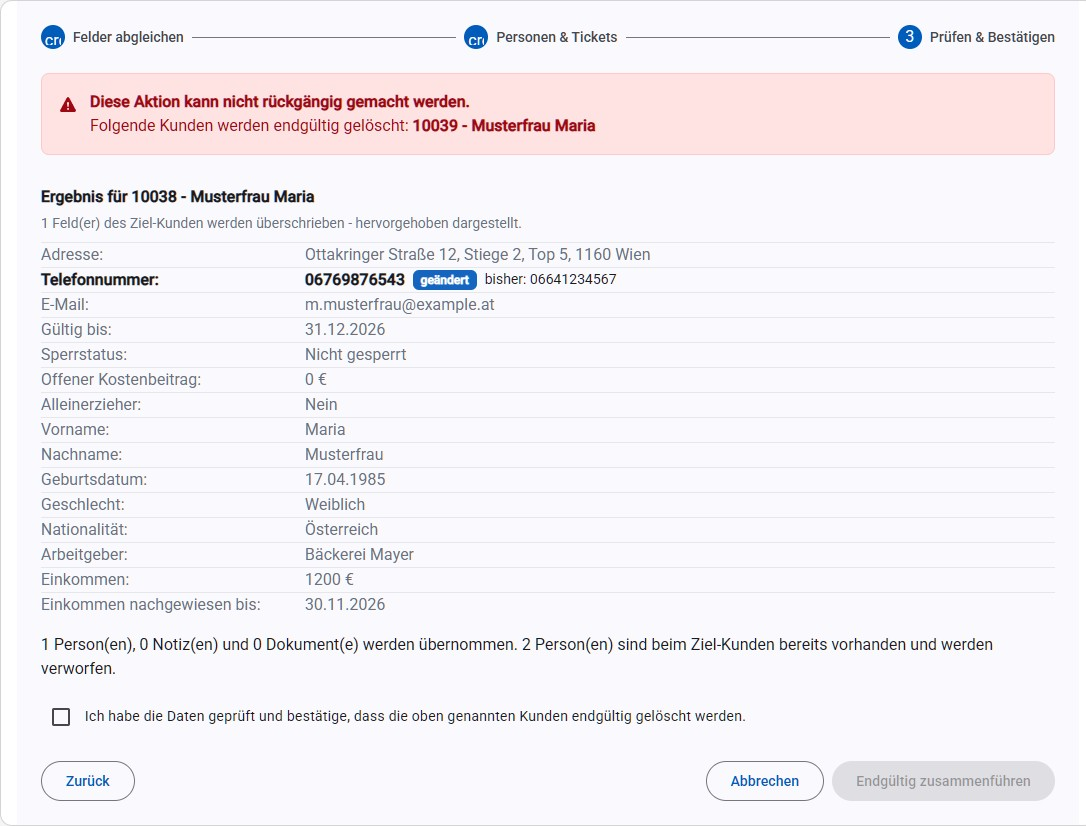
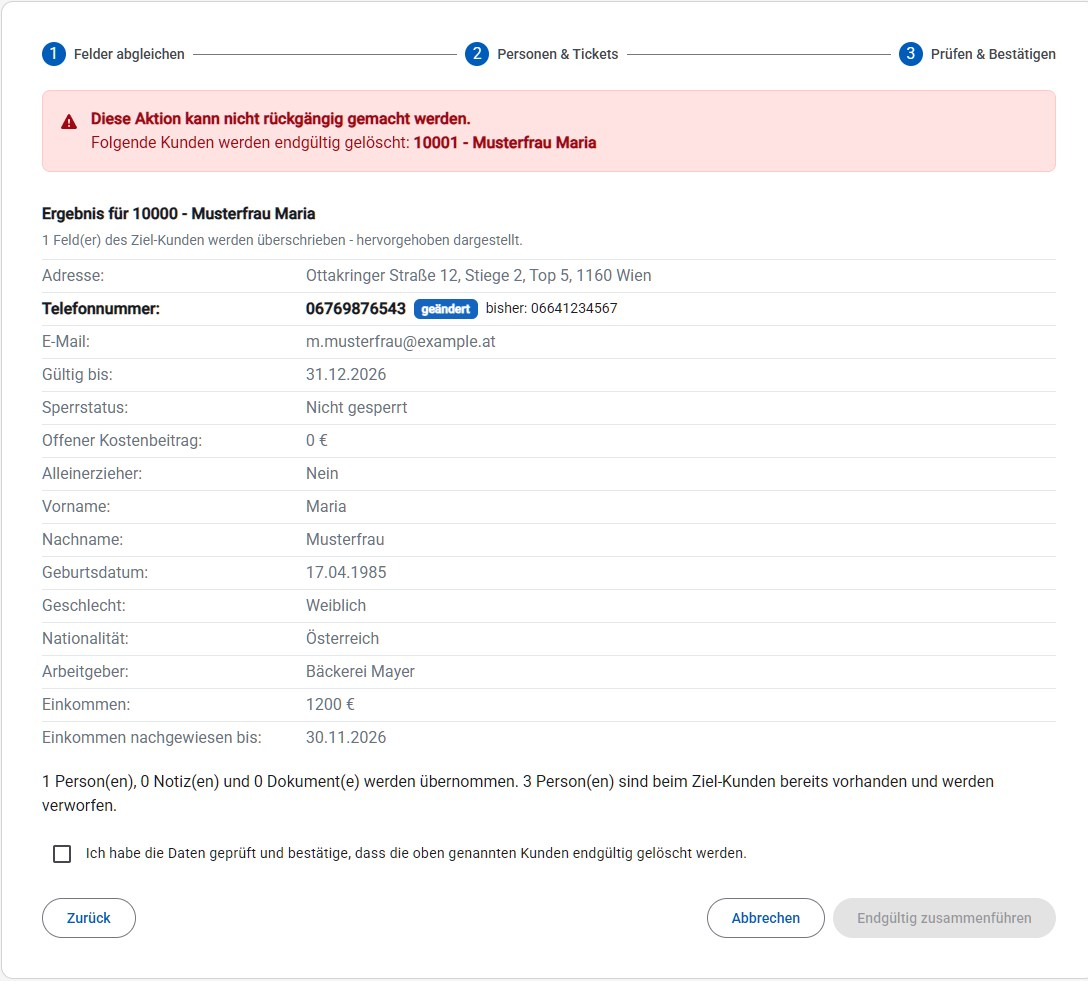
fix(customer): show step numbers and host background in the merge stepper
The stepper rendered visited steps' edit indicator as the Material-Icons
"create" ligature - a font this app doesn't ship - which showed up as
clipped raw text ("cr"). Visited steps now keep their number via
matStepperIcon overrides.

The stepper also painted its own --mat-sys-surface (a grey-lavender tint)
inside the white card; a global override makes every stepper transparent so
it takes the surface it sits on. The confirm-step userguide screenshot is
retaken accordingly.

diff --git a/frontend/src/main/webapp/src/app/modules/customer/views/customer-merge/customer-merge.component.html b/frontend/src/main/webapp/src/app/modules/customer/views/customer-merge/customer-merge.component.html
@@ -21,6 +21,12 @@
   <mat-card>
     <mat-card-content>
       <mat-stepper [orientation]="stepperOrientation()" aria-label="Schritte der Zusammenführung" testid="merge-stepper">
+        <!-- The stepper's default edit/done indicators are Material-Icons font ligatures ("create"/
+             "done"); this app doesn't ship that font (icons are FontAwesome), so they would render
+             as clipped raw text. Visited steps keep their number instead. -->
+        <ng-template matStepperIcon="edit" let-index="index">{{index + 1}}</ng-template>
+        <ng-template matStepperIcon="done" let-index="index">{{index + 1}}</ng-template>
+
         <mat-step>
           <ng-template matStepLabel><span testid="merge-step-fields">Felder abgleichen</span></ng-template>
 

diff --git a/frontend/src/main/webapp/cypress/e2e/customer-duplicates.cy.ts b/frontend/src/main/webapp/cypress/e2e/customer-duplicates.cy.ts
@@ -252,6 +252,11 @@ describe('Customer Merge', () => {
       cy.byTestId('merge-next-persons-button').click();
       cy.byTestId('merge-next-confirm-button').click();
 
+      // visited steps keep their number - the default edit icon is a Material-Icons font ligature
+      // this app doesn't ship, which would render as clipped raw text ("cr")
+      cy.byTestId('merge-stepper').find('.mat-step-header .mat-step-icon').eq(0).should('have.text', '1');
+      cy.byTestId('merge-stepper').find('.mat-step-header .mat-step-icon').eq(1).should('have.text', '2');
+
       cy.byTestId('merge-danger-banner')
         .should('contain.text', 'kann nicht rückgängig gemacht werden')
         .and('contain.text', `${source.id}`);

diff --git a/frontend/src/main/webapp/src/scss/components/mat-stepper.scss b/frontend/src/main/webapp/src/scss/components/mat-stepper.scss
@@ -1,0 +1,8 @@
+// The stepper paints its own surface by default (--mat-sys-surface, a grey-lavender tint in this
+// theme), which reads as a grey box inside the white cards content sits in. Transparent lets every
+// stepper take the background of whatever surface hosts it. The header label/icon colours all sit
+// on on-surface/primary tokens, which keep their contrast on white, so no text colours need to move
+// along.
+:root {
+  --mat-stepper-container-color: transparent;
+}

diff --git a/frontend/src/main/webapp/src/scss/angular-material-theme.scss b/frontend/src/main/webapp/src/scss/angular-material-theme.scss
@@ -12,6 +12,7 @@
 @import "components/mat-table";
 @import "components/mat-tabs";
 @import "components/mat-paginator";
+@import "components/mat-stepper";
 @import "components/mat-tooltip";
 @import "components/mat-button-toggle";
 @import "components/tafel-snackbar";
